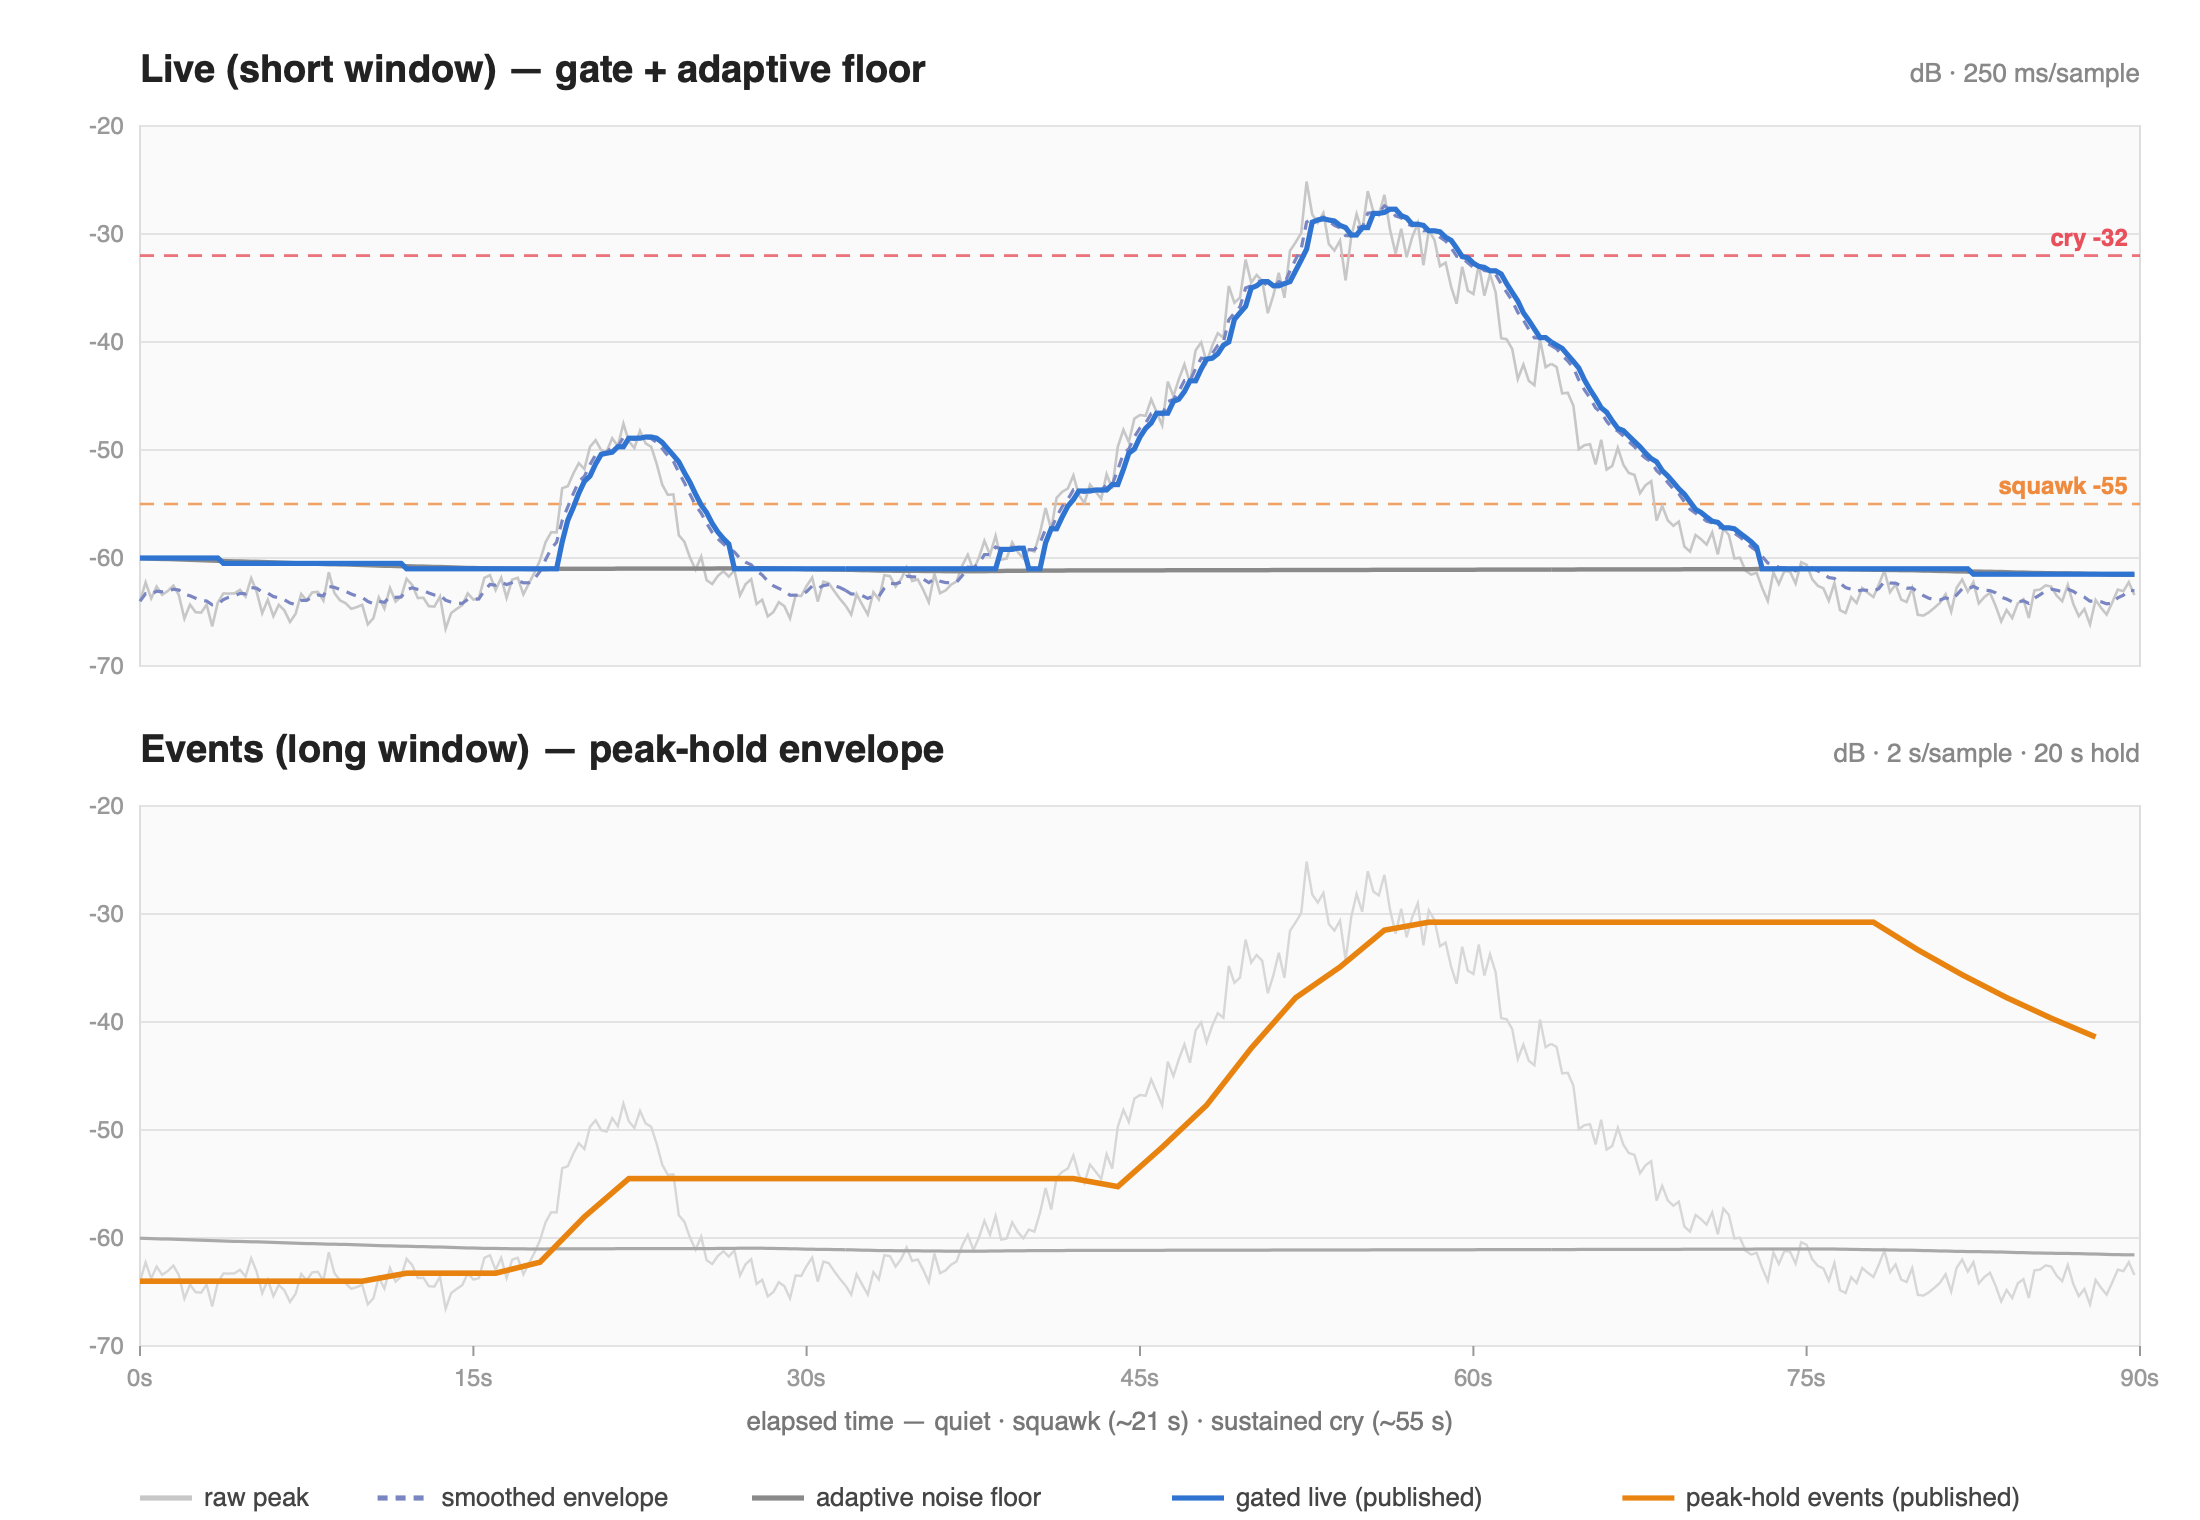
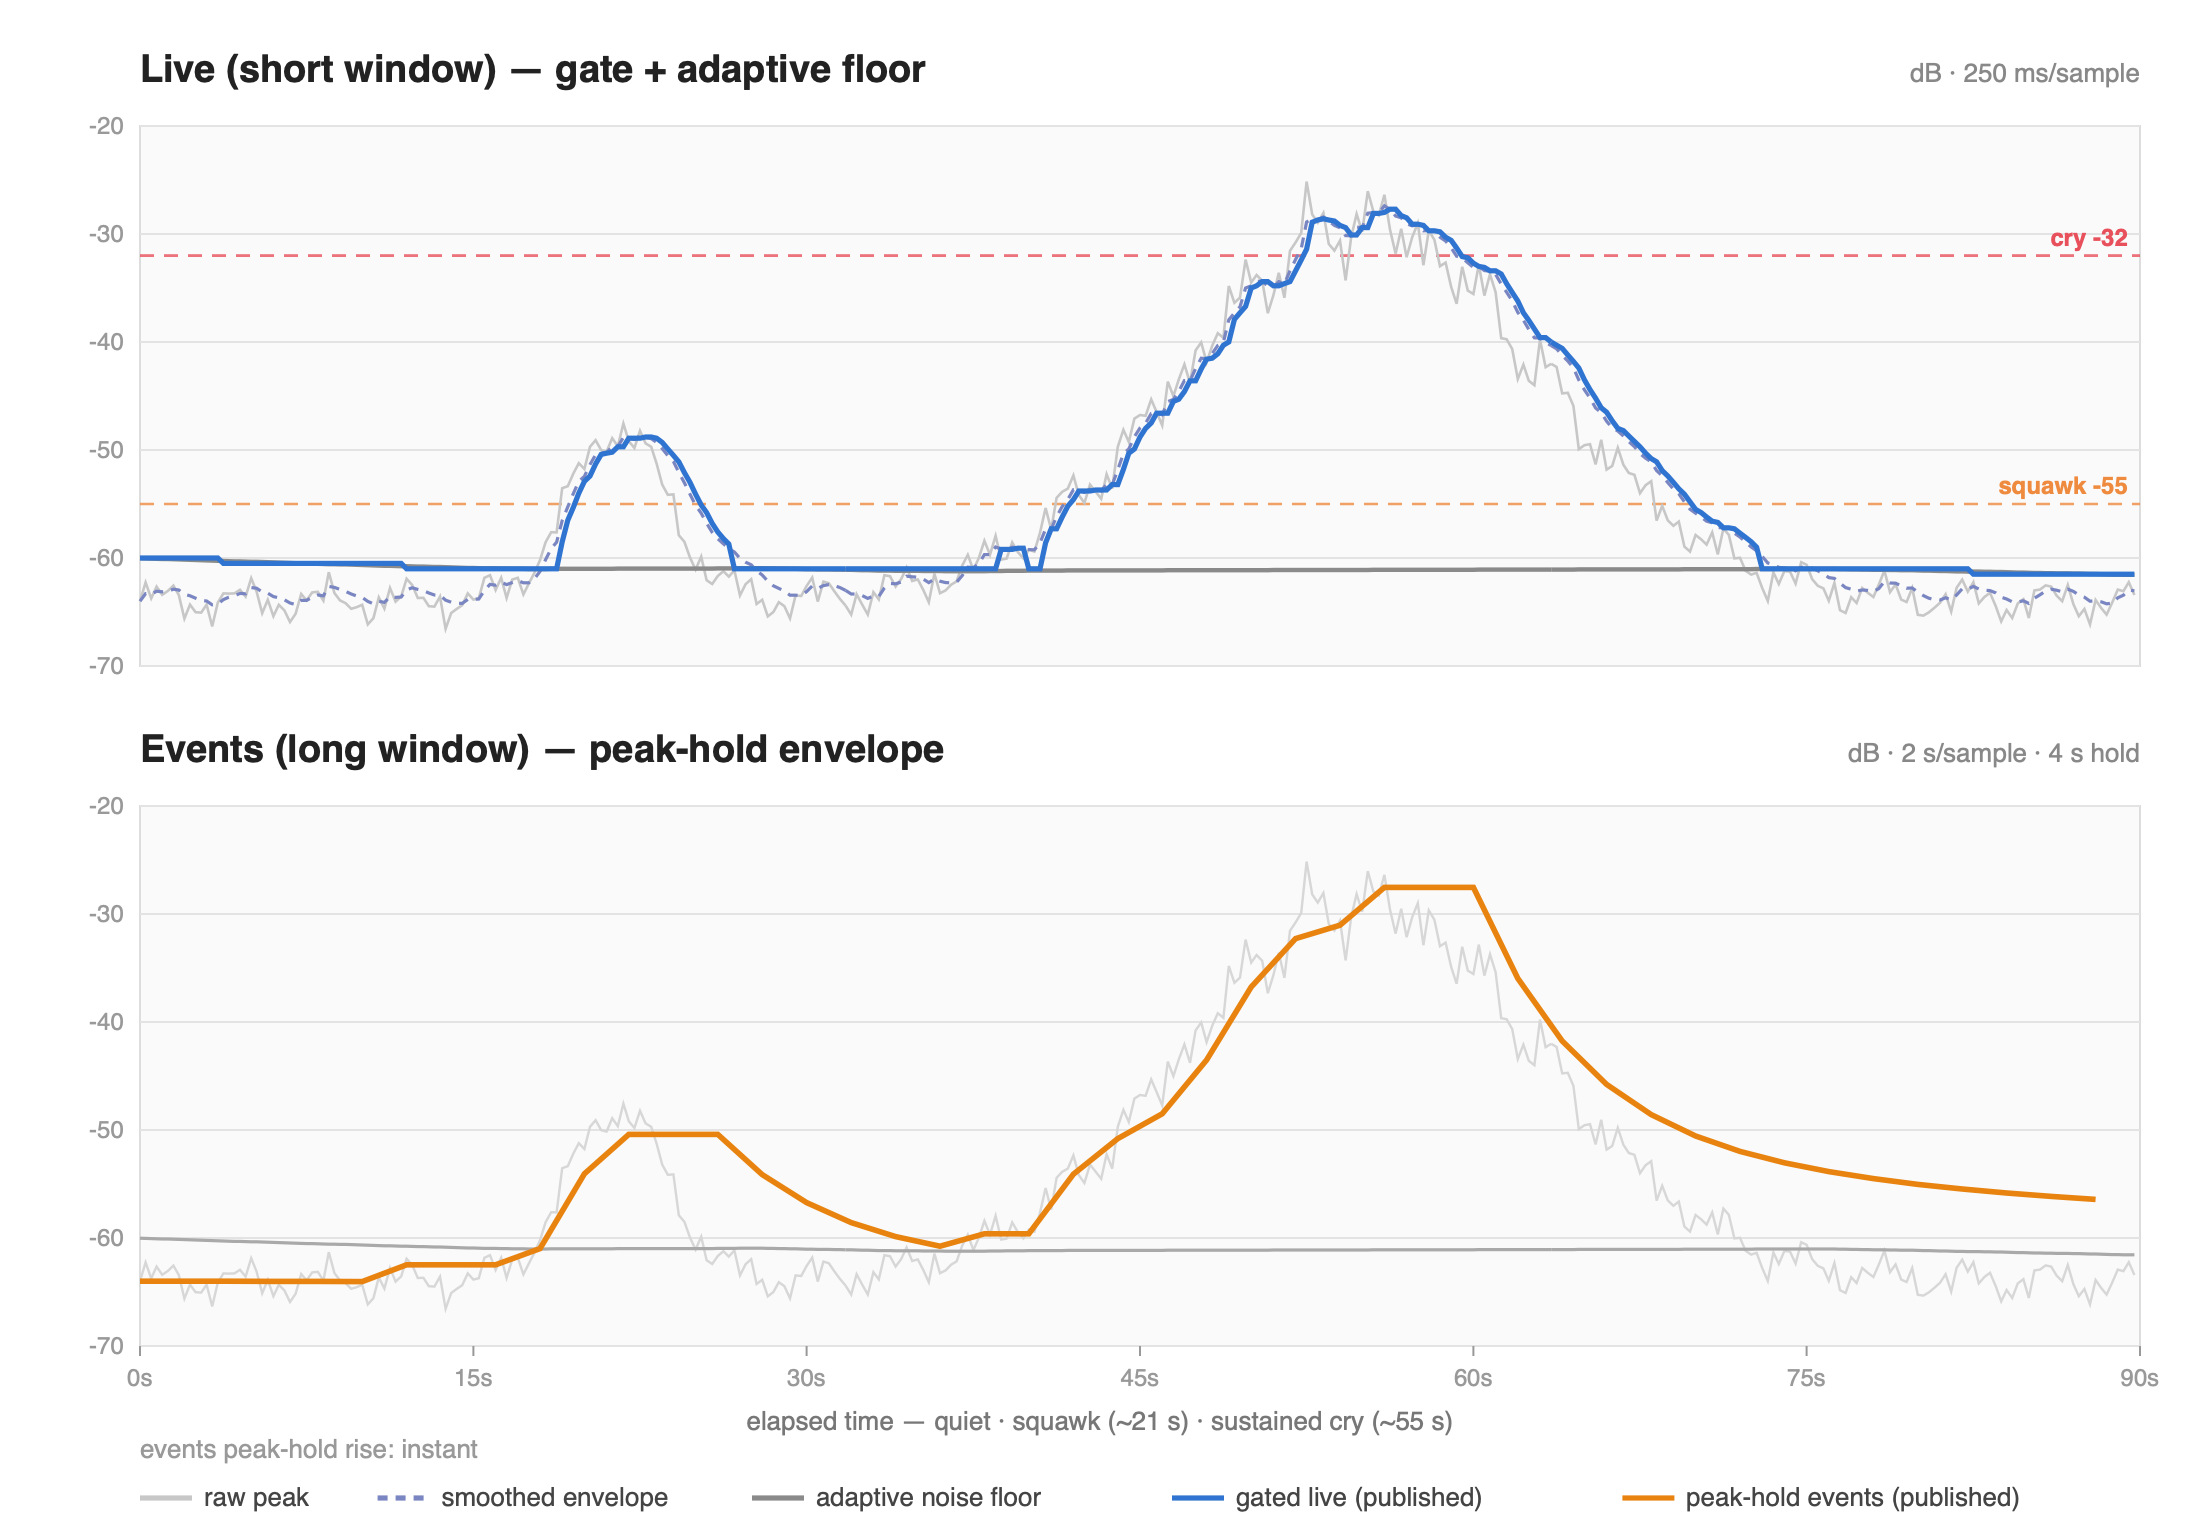
feat: retune events peak-hold (variant C) + diagnostics housekeeping
events (long window) peak-hold now tracks the real peak and decays cleanly
instead of a long flat plateau:
- new events_input_coeff knob (default 0.40 = legacy); sentinel.yaml sets 0.75
  so the peak-hold reaches the true peak level.
- hold 20s -> 4s, glide 0.10 -> 0.30: short hold, brisk decay toward baseline.
  Each event reads as a quick peak, not a smeared hump.

housekeeping (diagnostics.yaml):
- add "Sentinel Version" text_sensor (diagnostic) exposing the build tag
  ${sentinel_version}; dev config gains sentinel_version: dev.
- status LED disabled_by_default (hidden in HA; boot/Wi-Fi status still works).

docs/figure: regenerate filtering.png with variant C; README + CLAUDE knob list
updated. Bump pinned ref v1.1.3 -> v1.1.4.

diff --git a/audio-sentinel/components/audio_sentinel/audio_sentinel.cpp b/audio-sentinel/components/audio_sentinel/audio_sentinel.cpp
@@ -207,8 +207,8 @@ void AudioSentinel::events_tick_() {
     this->ev_u_ = v;
   if (std::isnan(this->ev_bl_))
     this->ev_bl_ = v;
-  this->ev_u_ += 0.40f * (v - this->ev_u_);    // light attack smoothing (kills 1-sample blips)
-  this->ev_bl_ += 0.03f * (v - this->ev_bl_);  // ~1 min baseline the release glides toward
+  this->ev_u_ += this->events_input_coeff_ * (v - this->ev_u_);  // input pre-smoothing (peak fidelity)
+  this->ev_bl_ += 0.03f * (v - this->ev_bl_);                   // ~1 min baseline the release glides toward
 
   // Peak-hold envelope: instant attack, hold, glide to baseline.
   const uint32_t now = millis();
@@ -244,8 +244,9 @@ void AudioSentinel::dump_config() {
   ESP_LOGCONFIG(TAG, "  initial floor: %.1f dB, drift: %.4f dB/tick, margin: %.1f dB", this->initial_floor_db_,
                 this->floor_drift_db_, this->margin_db_);
   ESP_LOGCONFIG(TAG, "  attack coeff: %.2f, release coeff: %.2f", this->attack_coeff_, this->release_coeff_);
-  ESP_LOGCONFIG(TAG, "  hysteresis: %.1f dB, hold: %u ms, glide: %.2f, attack: %.1f dB", this->hysteresis_db_,
-                (unsigned) this->hold_ms_, this->glide_, this->attack_db_);
+  ESP_LOGCONFIG(TAG, "  hysteresis: %.1f dB, hold: %u ms, glide: %.2f, attack: %.1f dB, ev input: %.2f",
+                this->hysteresis_db_, (unsigned) this->hold_ms_, this->glide_, this->attack_db_,
+                this->events_input_coeff_);
   ESP_LOGCONFIG(TAG, "  ring buffer: %d samples, /api/audio_buffer %s", RING_SIZE,
                 this->web_server_base_ != nullptr ? "enabled" : "disabled");
 }

diff --git a/audio-sentinel/components/audio_sentinel/__init__.py b/audio-sentinel/components/audio_sentinel/__init__.py
@@ -31,6 +31,7 @@ CONF_ATTACK_COEFF = "attack_coeff"
 CONF_HOLD = "hold"
 CONF_GLIDE = "glide"
 CONF_ATTACK_DB = "attack_db"
+CONF_EVENTS_INPUT_COEFF = "events_input_coeff"
 
 CONFIG_SCHEMA = cv.Schema(
     {
@@ -55,6 +56,7 @@ CONFIG_SCHEMA = cv.Schema(
         cv.Optional(CONF_HOLD, default="20s"): cv.positive_time_period_milliseconds,
         cv.Optional(CONF_GLIDE, default=0.10): cv.float_,
         cv.Optional(CONF_ATTACK_DB, default=0.5): cv.float_,
+        cv.Optional(CONF_EVENTS_INPUT_COEFF, default=0.40): cv.float_,
     }
 ).extend(cv.COMPONENT_SCHEMA)
 
@@ -92,3 +94,4 @@ async def to_code(config):
     cg.add(var.set_hold_ms(config[CONF_HOLD].total_milliseconds))
     cg.add(var.set_glide(config[CONF_GLIDE]))
     cg.add(var.set_attack_db(config[CONF_ATTACK_DB]))
+    cg.add(var.set_events_input_coeff(config[CONF_EVENTS_INPUT_COEFF]))

diff --git a/audio-sentinel/components/audio_sentinel/audio_sentinel.h b/audio-sentinel/components/audio_sentinel/audio_sentinel.h
@@ -70,6 +70,7 @@ class AudioSentinel : public Component {
   void set_hold_ms(uint32_t v) { this->hold_ms_ = v; }
   void set_glide(float v) { this->glide_ = v; }
   void set_attack_db(float v) { this->attack_db_ = v; }
+  void set_events_input_coeff(float v) { this->events_input_coeff_ = v; }
 
   // --- runtime audio gate (HA switch / OTA) ---
   void set_audio_enabled(bool en) { this->audio_enabled_ = en; }
@@ -123,6 +124,7 @@ class AudioSentinel : public Component {
   uint32_t hold_ms_{20000};
   float glide_{0.10f};
   float attack_db_{0.5f};
+  float events_input_coeff_{0.40f};  // events input pre-smoothing EMA (peak fidelity)
 
   // ring buffer
   Sample ring_[RING_SIZE];

diff --git a/README.md b/README.md
@@ -58,10 +58,12 @@ a sustained *cry* (~55 s):
    the published value is *snapped to the floor* (quantised to 0.5 dB), so quiet
    periods read as a dead-flat line and real events pop out. Above the margin the
    true peak passes through at 0.1 dB precision.
-4. **Peak-hold** (orange, *events*) — a separate slow envelope: instant attack, then
-   **hold** the peak for 20 s, then **glide** down toward a ~1-min baseline. This
-   keeps a short cry visible across the 4-hour overview instead of vanishing between
-   2 s samples.
+4. **Peak-hold** (orange, *events*) — a separate envelope tuned to **track the real
+   peak**: light input smoothing (`events_input_coeff` = 0.75) so it reaches the true
+   level, instant attack, a short **hold** (4 s), then a brisk **glide** down toward a
+   ~1-min baseline (`glide` = 0.30). Each event shows as a quick peak that decays
+   cleanly rather than a long flat plateau — so a short cry stays visible across the
+   4-hour overview without smearing into a hump.
 
 The **squawk/cry binary sensors** compare the *raw* peak against their thresholds
 with `hysteresis_db` (1.5 dB): they trip at the threshold but only clear 1.5 dB
@@ -138,8 +140,8 @@ repo over `github://` (pinned to a tag) and fills in its own secrets. Nothing un
 ```
 
 1. Add **`audio-sentinel.yaml`** to the dir (copy it from this repo / the
-   [v1.1.3 release](https://github.com/dude84/esphome-audio-sentinel/releases)).
-   It already points at `github://dude84/esphome-audio-sentinel@v1.1.3`.
+   [v1.1.4 release](https://github.com/dude84/esphome-audio-sentinel/releases)).
+   It already points at `github://dude84/esphome-audio-sentinel@v1.1.4`.
 2. Create `secrets.yaml` next to it — `wifi_ssid`, `wifi_password`, `failsafe_ap_password`,
    `api_password`, `ota_password` (see `secrets.yaml.example`). The add-on uses
    `/config/esphome/secrets.yaml` for every device.
@@ -155,7 +157,7 @@ repo over `github://` (pinned to a tag) and fills in its own secrets. Nothing un
    # -> {"count":1200,"ms":250,"p":[...],"n":[...]}
    ```
 
-**Pinning & multiple devices.** Each device is pinned to a tag (`@v1.1.3`), so a push
+**Pinning & multiple devices.** Each device is pinned to a tag (`@v1.1.4`), so a push
 to `main` never changes a device until you bump its ref. For several devices, copy
 `audio-sentinel.yaml` per device (`nursery.yaml`, `bedroom.yaml`, …) and just change
 the `substitutions:` — they all share this one remote library.

diff --git a/CLAUDE.md b/CLAUDE.md
@@ -41,7 +41,8 @@ Data flow: `INMP441 → i2s_audio → sound_level (spl_db, spl_peak_db) → audi
 `initial_floor_db`, `floor_drift_db`, `floor_alpha`, `margin_db` (noise floor) ·
 `attack_coeff`/`release_coeff` (live envelope — `attack_coeff` 1.0 = legacy instant
 attack, <1.0 smooths the live trace; alarms use raw peak so latency is unaffected) ·
-`hold`/`glide`/`attack_db` (events peak-hold) ·
+`hold`/`glide`/`attack_db`/`events_input_coeff` (events peak-hold — variant C ships
+`hold 4s`, `glide 0.30`, `events_input_coeff 0.75` to track peaks and decay fast) ·
 `hysteresis_db` (squawk/cry) · `live_interval`/`events_interval` (cadence).
 
 ## Contracts — don't break these